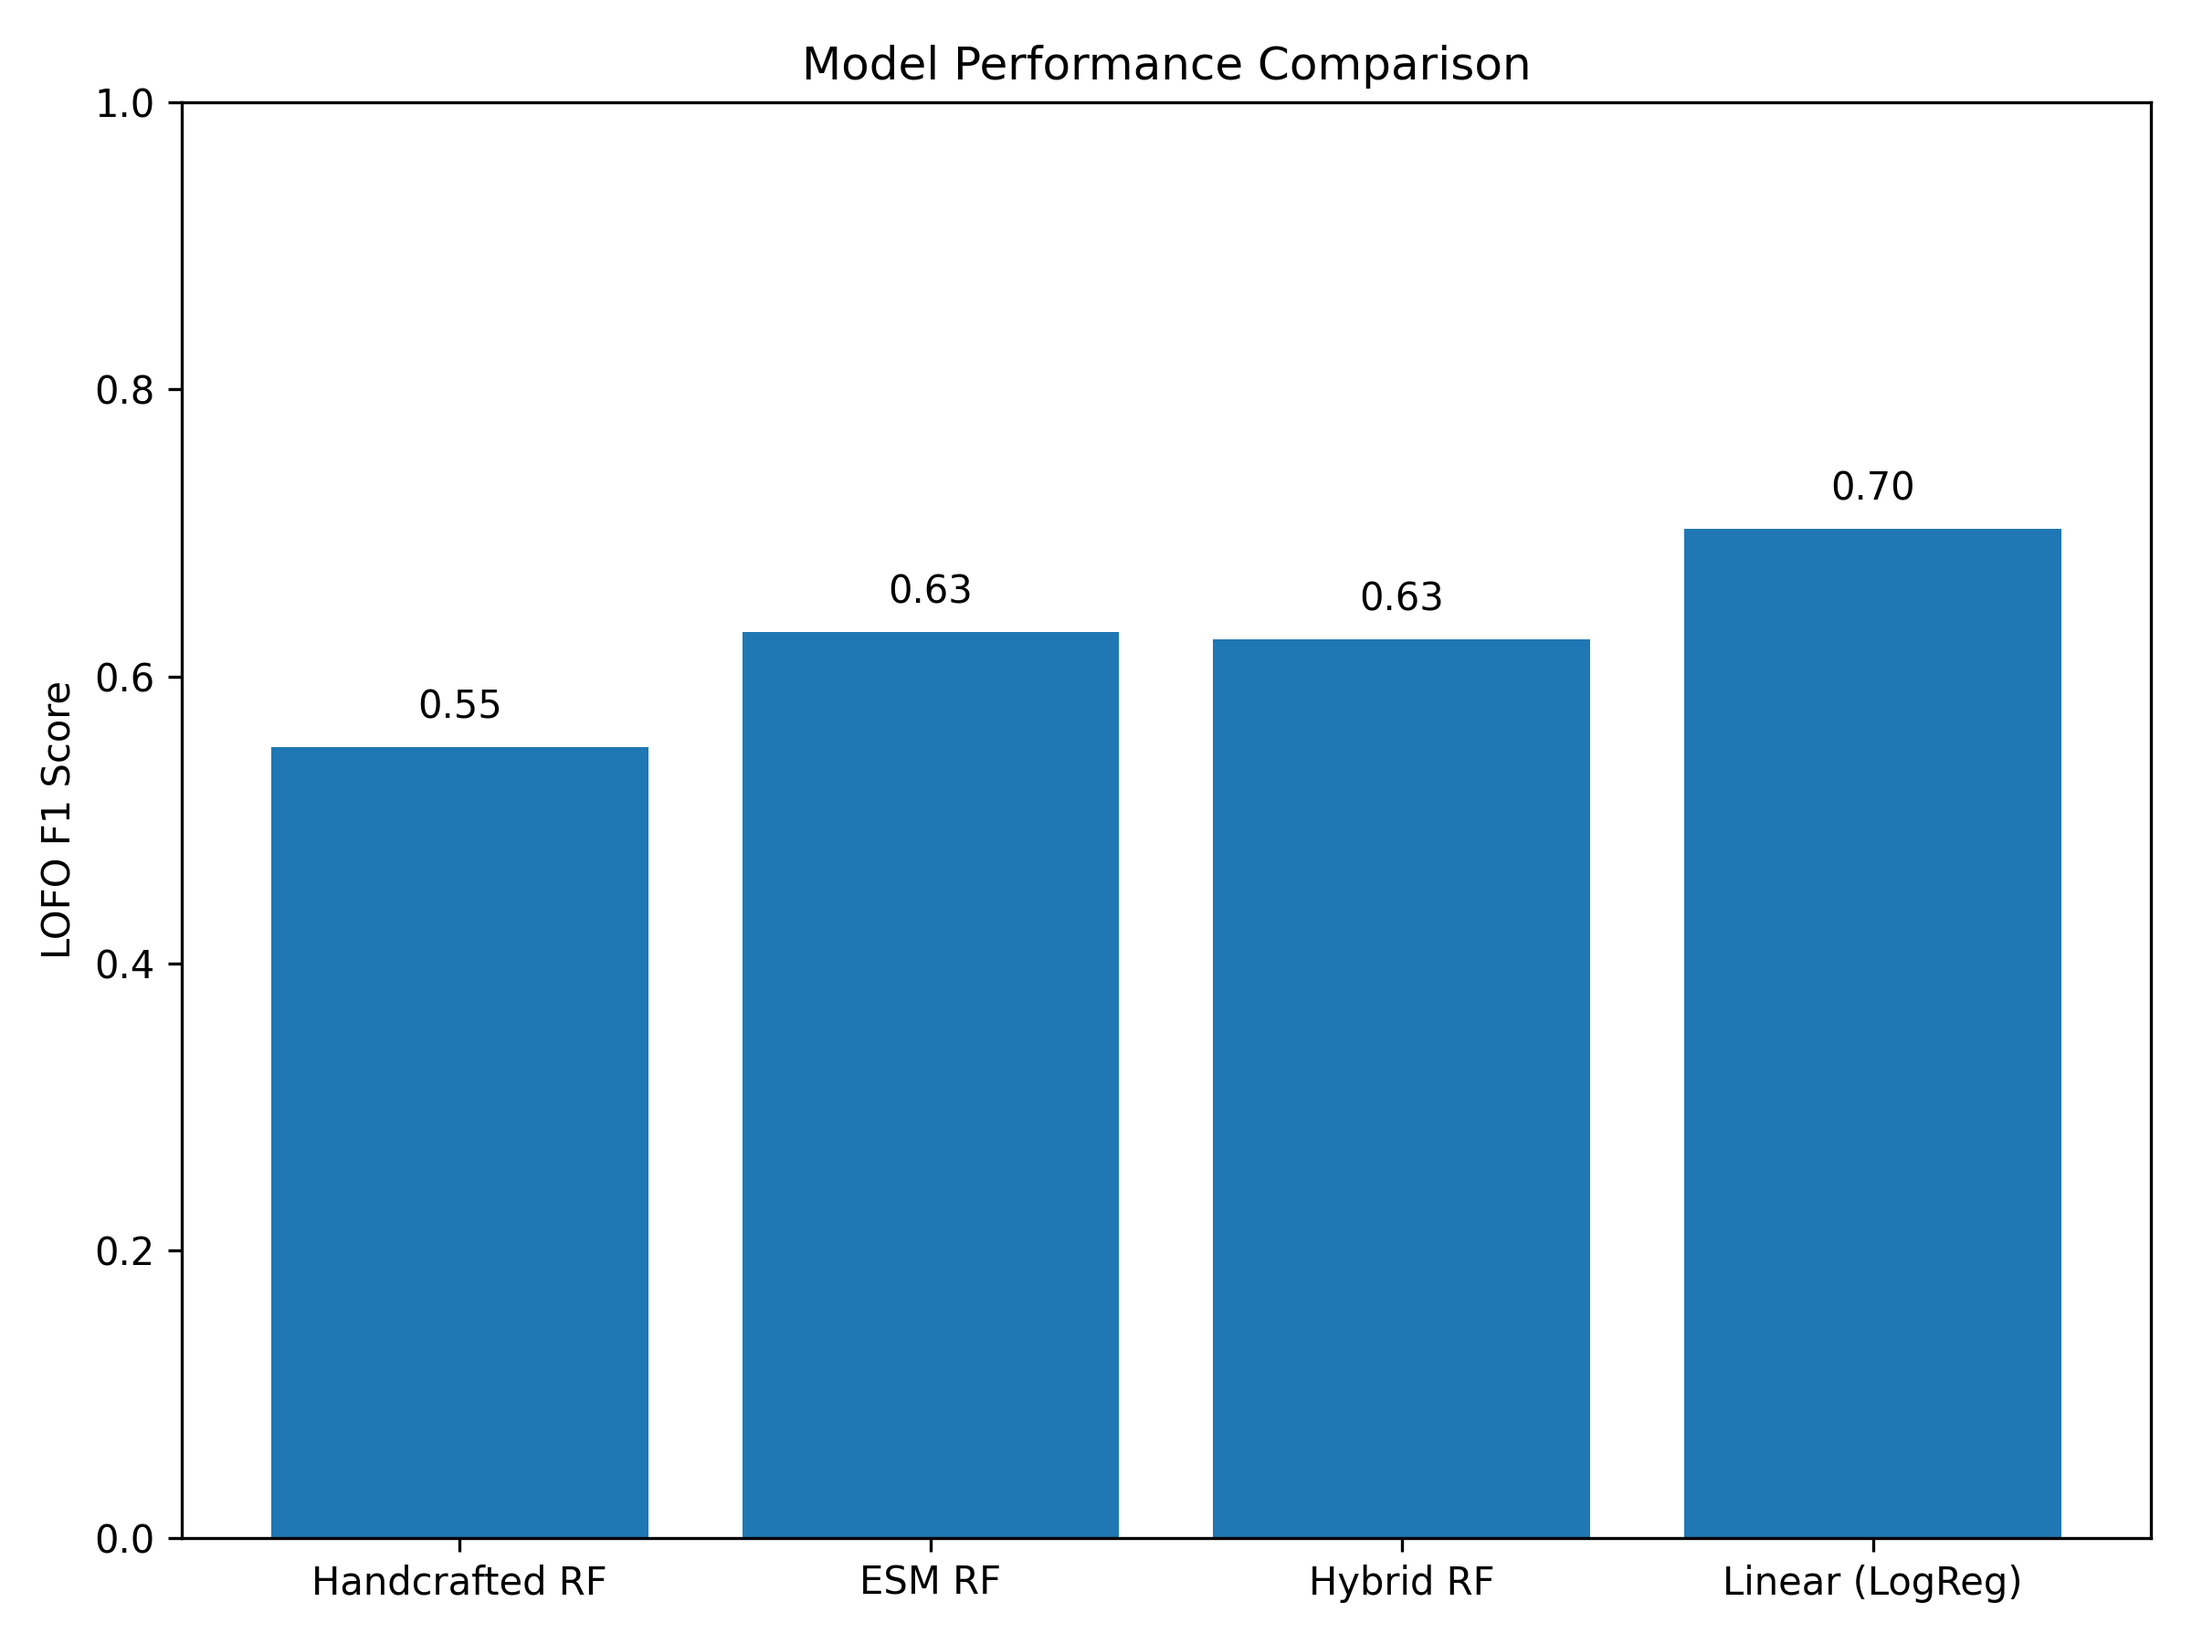
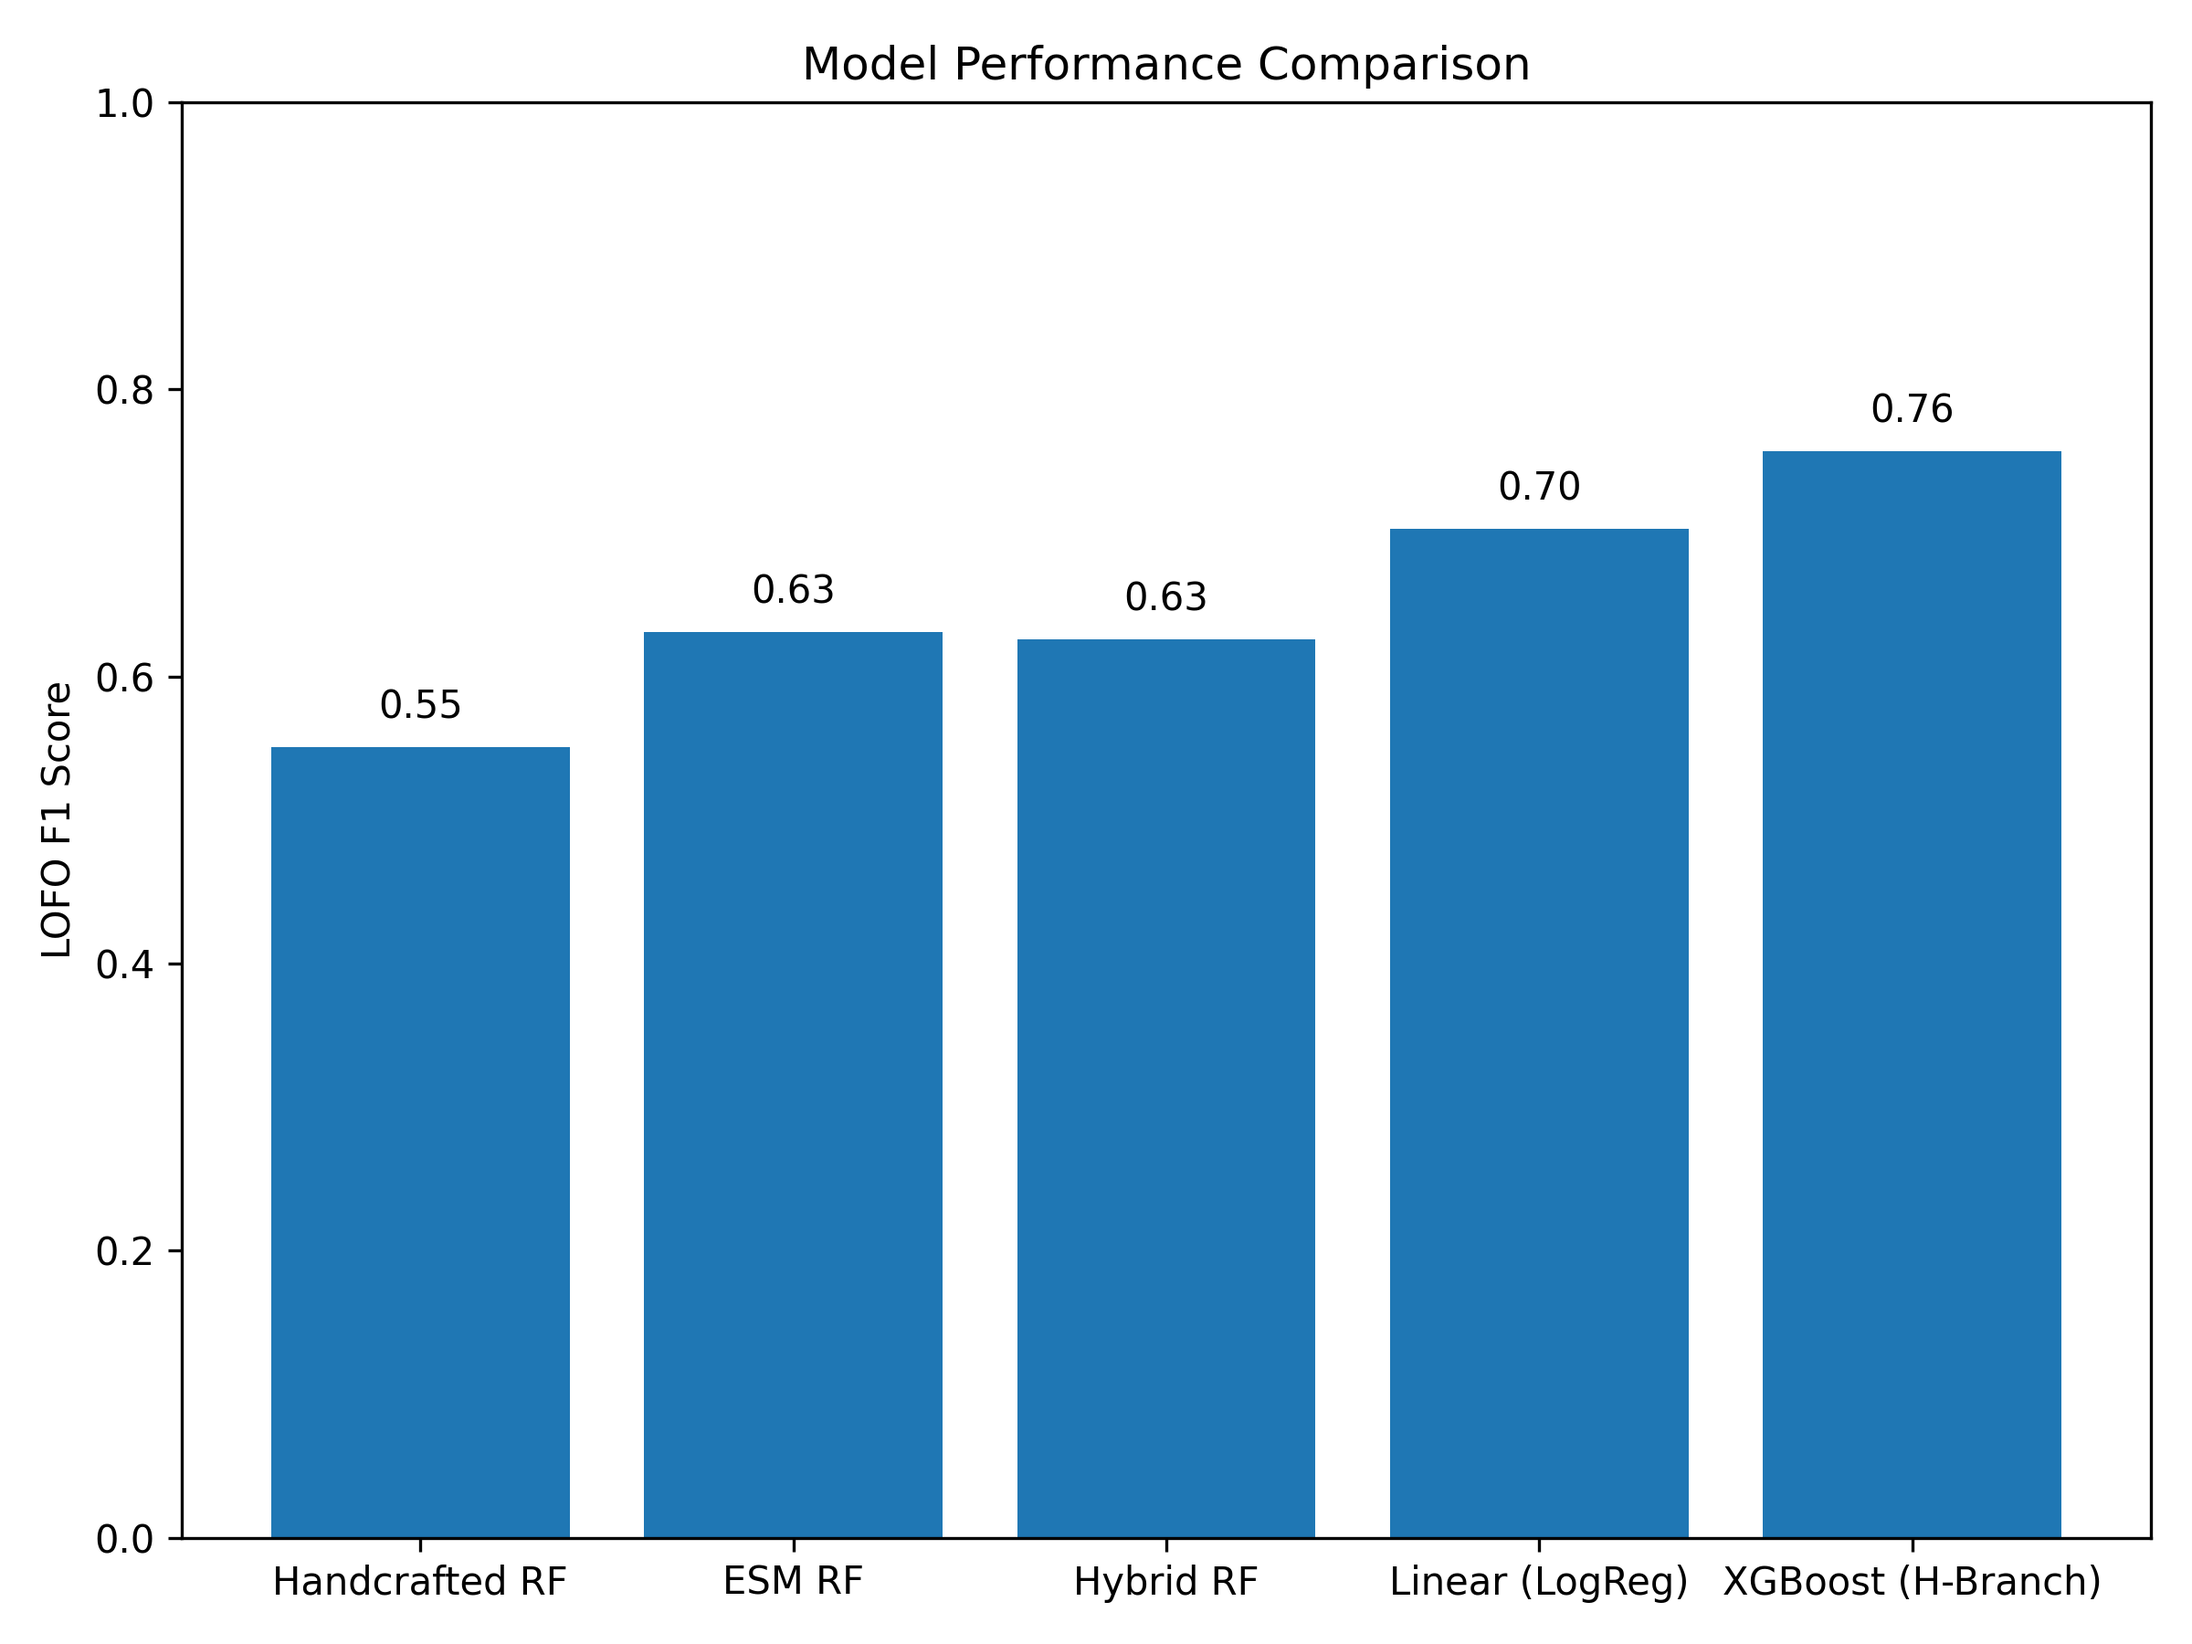
Finalizing H-Branch: Added comparison script, graph, and confusion matrix

diff --git a/src/comparison_final.py b/src/comparison_final.py
@@ -1,0 +1,72 @@
+import matplotlib.pyplot as plt
+import pandas as pd
+from pathlib import Path
+
+print("📊 Generating Model Comparison Plot...")
+
+# -----------------------------
+# Model results
+# -----------------------------
+
+data = {
+    "Model": [
+        "Handcrafted RF",
+        "ESM RF",
+        "Hybrid RF",
+        "Linear (LogReg)", "XGBoost (H-Branch)"
+    ],
+    "LOFO_F1": [
+        0.551,
+        0.631,
+        0.626,
+        0.703, 0.757
+    ]
+}
+
+df = pd.DataFrame(data)
+
+print(df)
+
+# -----------------------------
+# Create results folder
+# -----------------------------
+
+results_dir = Path("results")
+results_dir.mkdir(exist_ok=True)
+
+# -----------------------------
+# Plot
+# -----------------------------
+
+plt.figure(figsize=(8,6))
+
+bars = plt.bar(
+    df["Model"],
+    df["LOFO_F1"]
+)
+
+plt.ylabel("LOFO F1 Score")
+plt.title("Model Performance Comparison")
+
+plt.ylim(0,1)
+
+# annotate bars
+for bar in bars:
+    height = bar.get_height()
+    plt.text(
+        bar.get_x() + bar.get_width()/2,
+        height + 0.02,
+        f"{height:.2f}",
+        ha="center"
+    )
+
+plt.tight_layout()
+
+plt.savefig(
+    results_dir / "model_comparison.png",
+    dpi=300
+)
+
+plt.show()
+
+print("✅ Saved: results/model_comparison.png")
